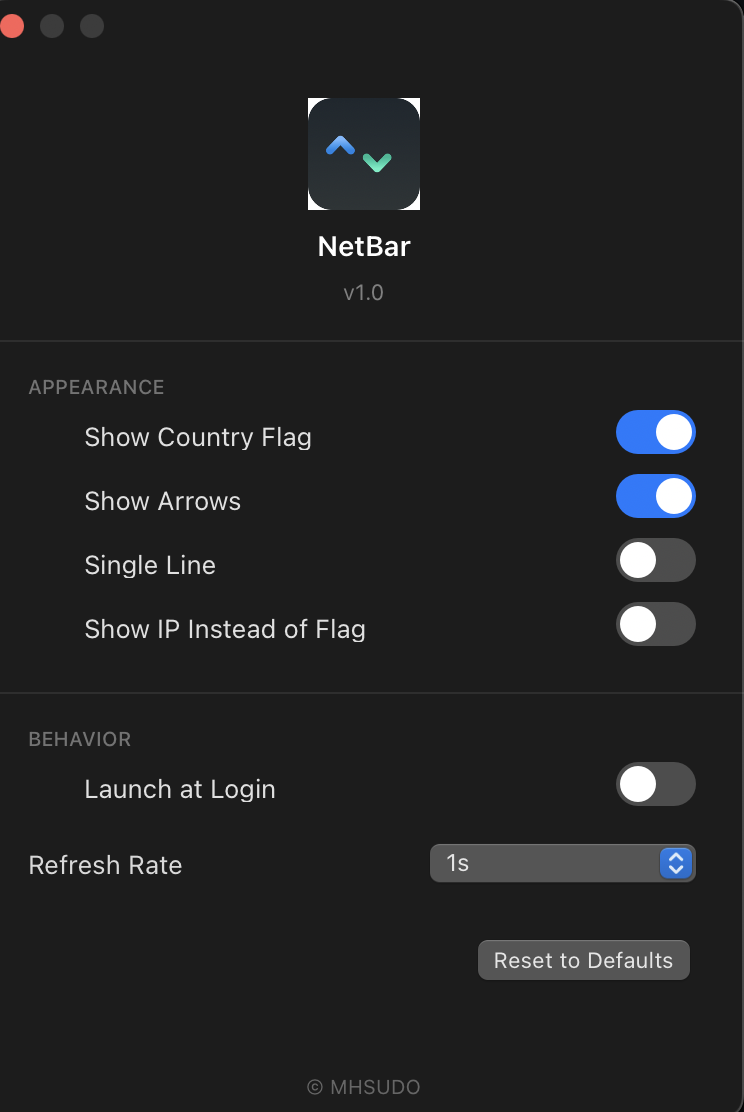
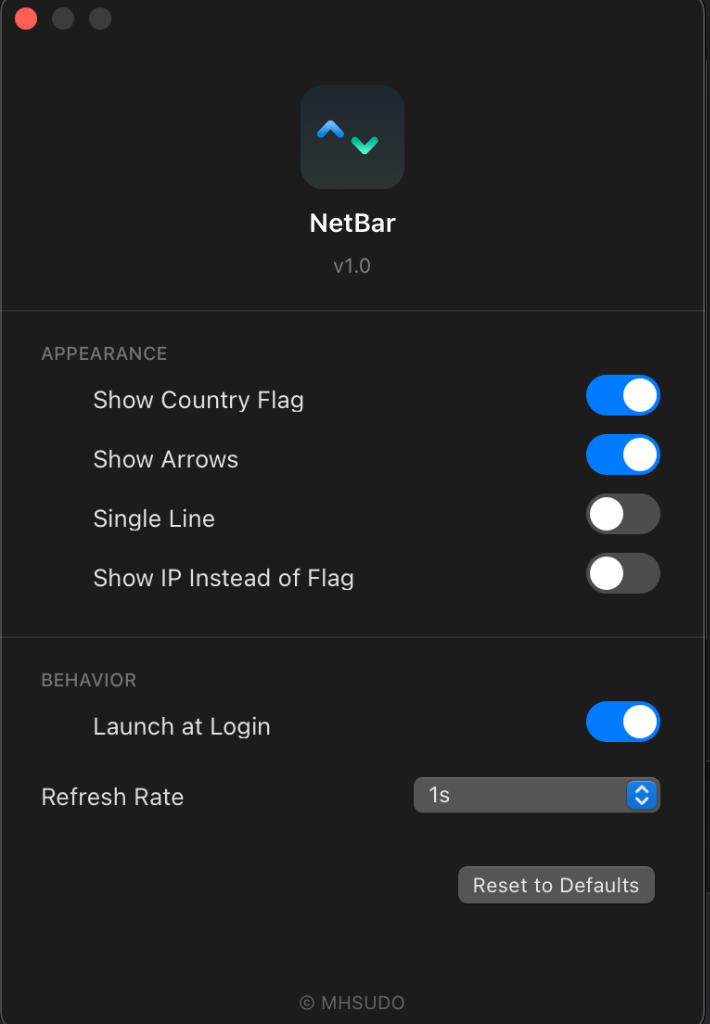
v1.0.2: Clickable copyright footer, version auto-sync, updated settings screenshot

diff --git a/NetBar/NetBar/SettingsWindowController.swift b/NetBar/NetBar/SettingsWindowController.swift
@@ -129,7 +129,7 @@ class SettingsWindowController: NSWindowController {
         y -= 26
 
         // ── Version ──
-        let version = Bundle.main.object(forInfoDictionaryKey: "CFBundleShortVersionString") as? String ?? "1.0"
+        let version = Bundle.main.object(forInfoDictionaryKey: "CFBundleShortVersionString") as? String ?? "1.0.2"
         let vLabel = label("v\(version)", size: 11, weight: .regular, color: NSColor(white: 0.5, alpha: 1.0))
         vLabel.frame = NSRect(x: 0, y: y - 14, width: w, height: 14)
         vLabel.alignment = .center
@@ -195,11 +195,29 @@ class SettingsWindowController: NSWindowController {
         contentView.addSubview(resetBtn)
         y -= 44
 
-        // ── Footer ──
-        let footer = label("© MHSUDO", size: 10, weight: .regular, color: NSColor(white: 0.4, alpha: 1.0))
-        footer.frame = NSRect(x: 0, y: 10, width: w, height: 12)
-        footer.alignment = .center
-        contentView.addSubview(footer)
+        // ── Footer (clickable link) ──
+        let footerField = NSTextField(frame: NSRect(x: 0, y: 8, width: w, height: 16))
+        footerField.isEditable = false
+        footerField.isBordered = false
+        footerField.drawsBackground = false
+        footerField.alignment = .center
+        let prefix = NSMutableAttributedString(string: "An open-source MIT licensed app by ",
+            attributes: [
+                .font: NSFont.systemFont(ofSize: 10, weight: .regular),
+                .foregroundColor: NSColor(white: 0.4, alpha: 1.0)
+            ])
+        let linkAttr = NSMutableAttributedString(string: "MHSUDO",
+            attributes: [
+                .font: NSFont.systemFont(ofSize: 10, weight: .medium),
+                .foregroundColor: NSColor(calibratedRed: 0.2, green: 0.6, blue: 1.0, alpha: 1.0),
+                .link: URL(string: "https://github.com/mh-sudo")! as NSURL,
+                .cursor: NSCursor.pointingHand
+            ])
+        prefix.append(linkAttr)
+        footerField.attributedStringValue = prefix
+        footerField.allowsEditingTextAttributes = true
+        footerField.isSelectable = true
+        contentView.addSubview(footerField)
     }
 
     // MARK: - Helpers